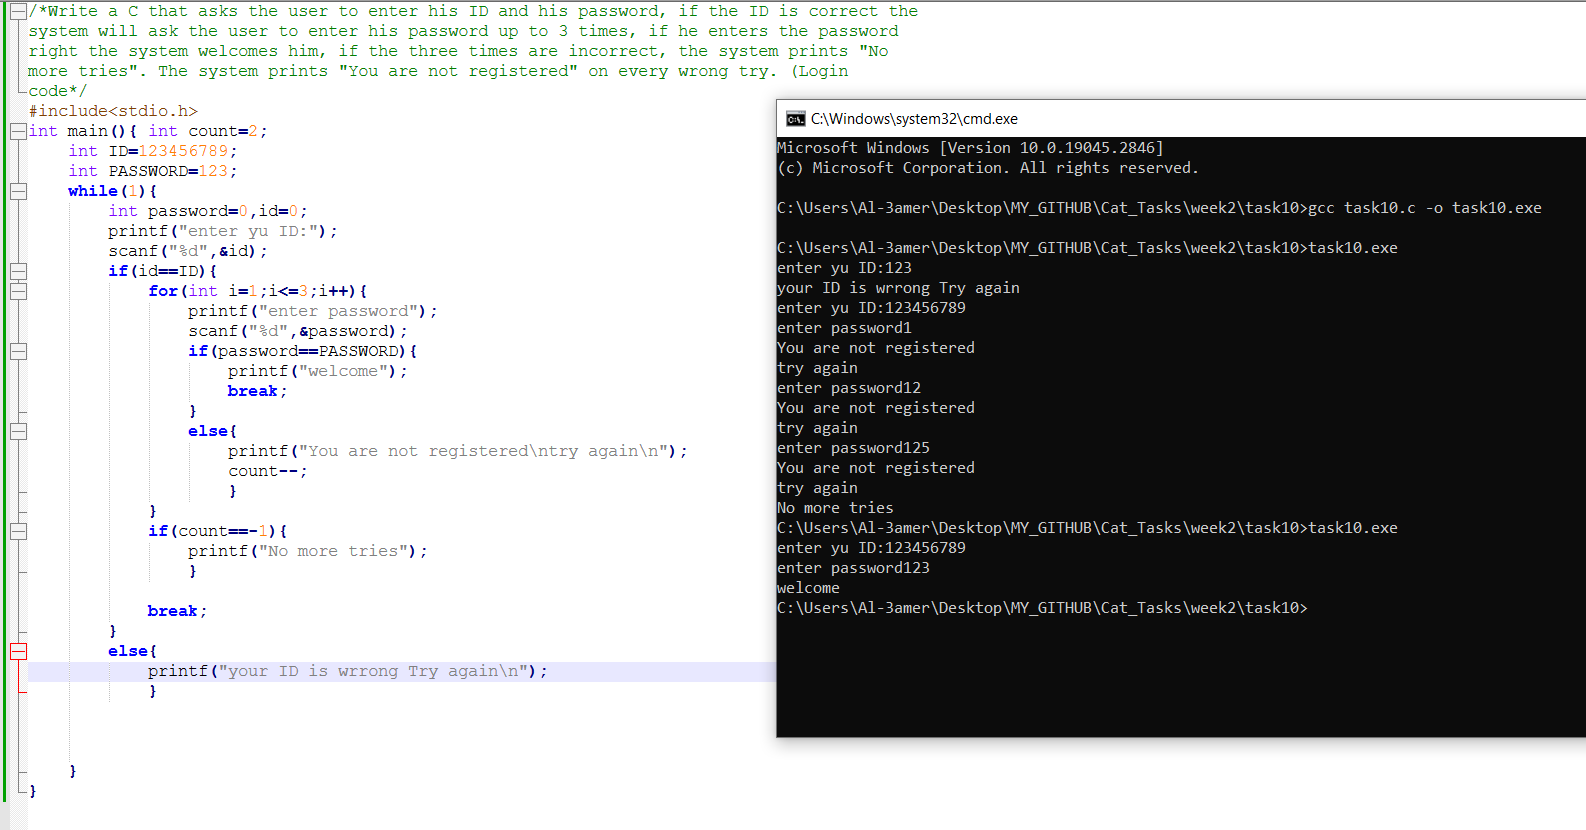
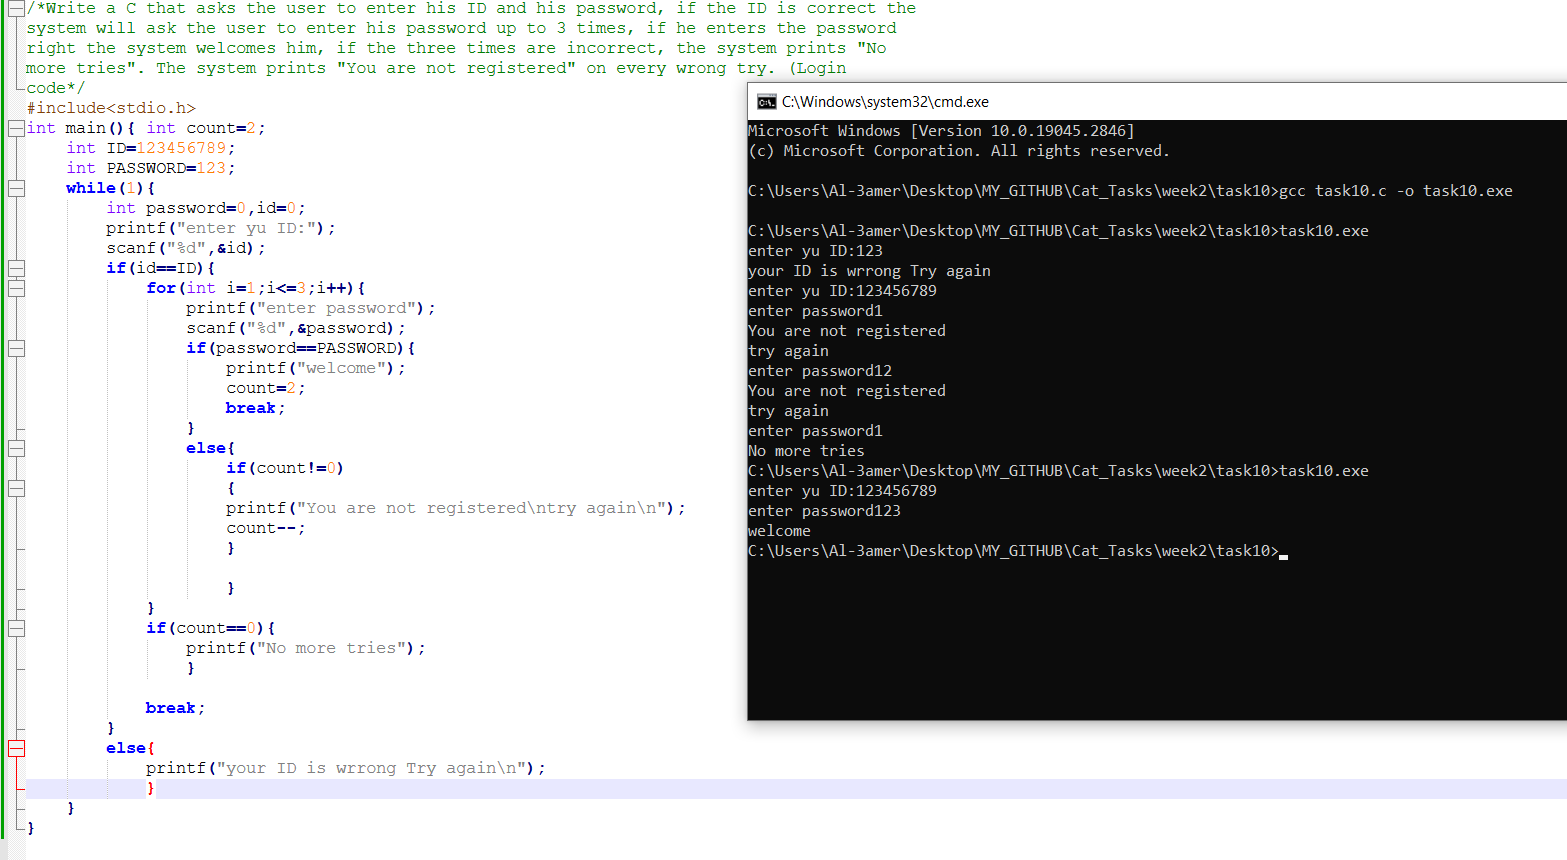
tasks for week2

diff --git a/week2/task10/task10.c b/week2/task10/task10.c
@@ -17,24 +17,26 @@ int main(){ int count=2;
 				scanf("%d",&password);
 				if(password==PASSWORD){
 					printf("welcome");
+					count=2;
 					break;
 				}
 				else{
-					printf("You are not registered\ntry again\n");
+				    if(count!=0)
+				    {
+                    printf("You are not registered\ntry again\n");
 					count--;
+				    }
+
 					}
 			}
-			if(count==-1){
+			if(count==0){
 				printf("No more tries");
 				}
-			
+
 			break;
 		}
 		else{
 			printf("your ID is wrrong Try again\n");
 			}
-		
-		
-		
 	}
 }
